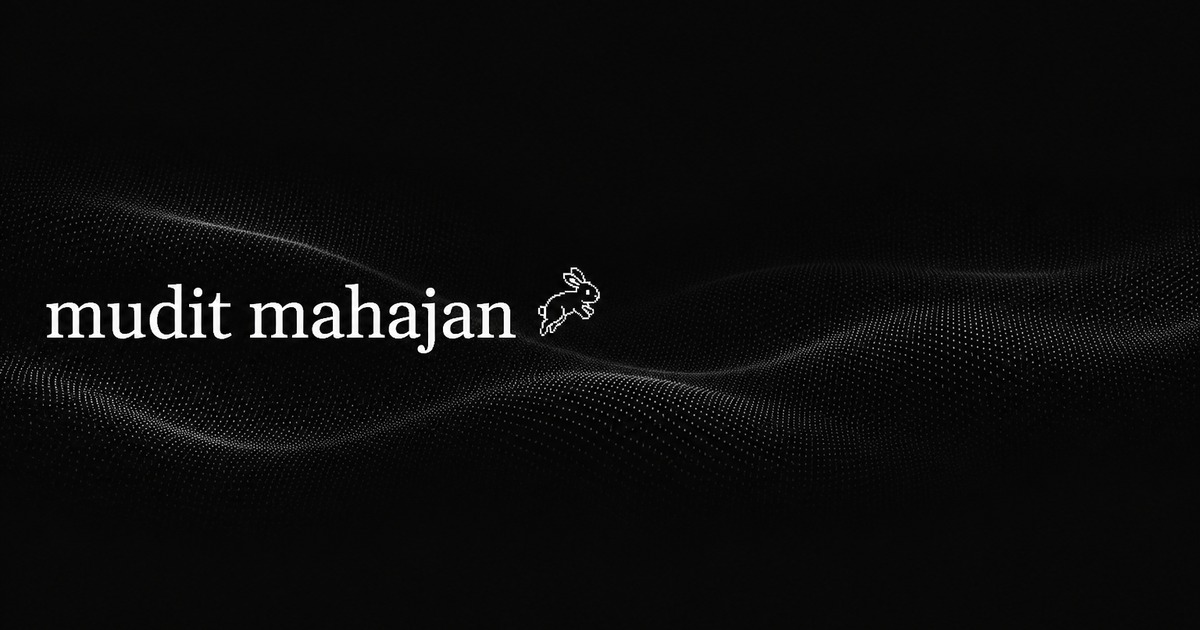
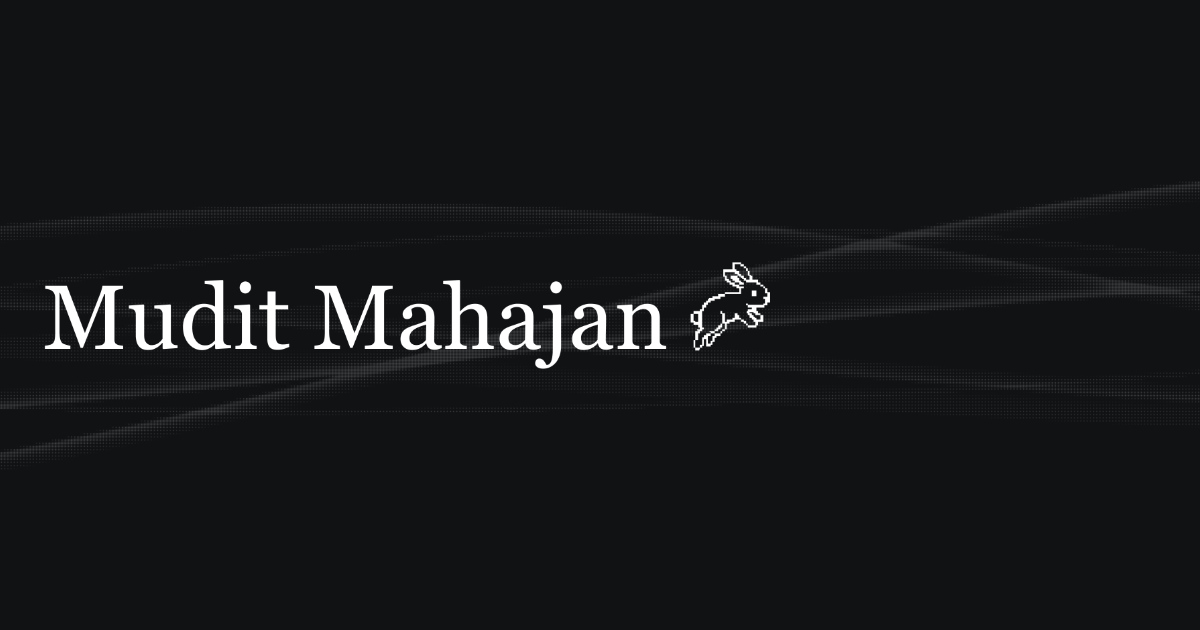
Use exact Drive Open Graph image for social previews.
Replace the recreated silk-wave OG assets with the provided 1200×630 frame and point metadata at the lossless PNG.

diff --git a/lib/site.ts b/lib/site.ts
@@ -15,7 +15,7 @@ export const SITE_DESCRIPTION =
   `${HERO_HEADLINE}. Currently @ JOOLA | cognitive science @ UCLA`;
 
 /** Default social / Open Graph image (1200×630). */
-export const OG_IMAGE_PATH = "/og-default.jpg";
+export const OG_IMAGE_PATH = "/og-default.png";
 export const OG_IMAGE_ALT =
   "mudit mahajan — product design, people, and rabbit holes";
 

diff --git a/app/about/layout.tsx b/app/about/layout.tsx
@@ -21,7 +21,7 @@ export const metadata: Metadata = {
     description:
       "About Mudit Mahajan — UCLA product designer. Experience, orgs, and links.",
     url: `${SITE_URL}/about`,
-    images: [{ url: "/og-default.jpg", width: 1200, height: 630 }],
+    images: [{ url: "/og-default.png", width: 1200, height: 630 }],
   },
 };
 
